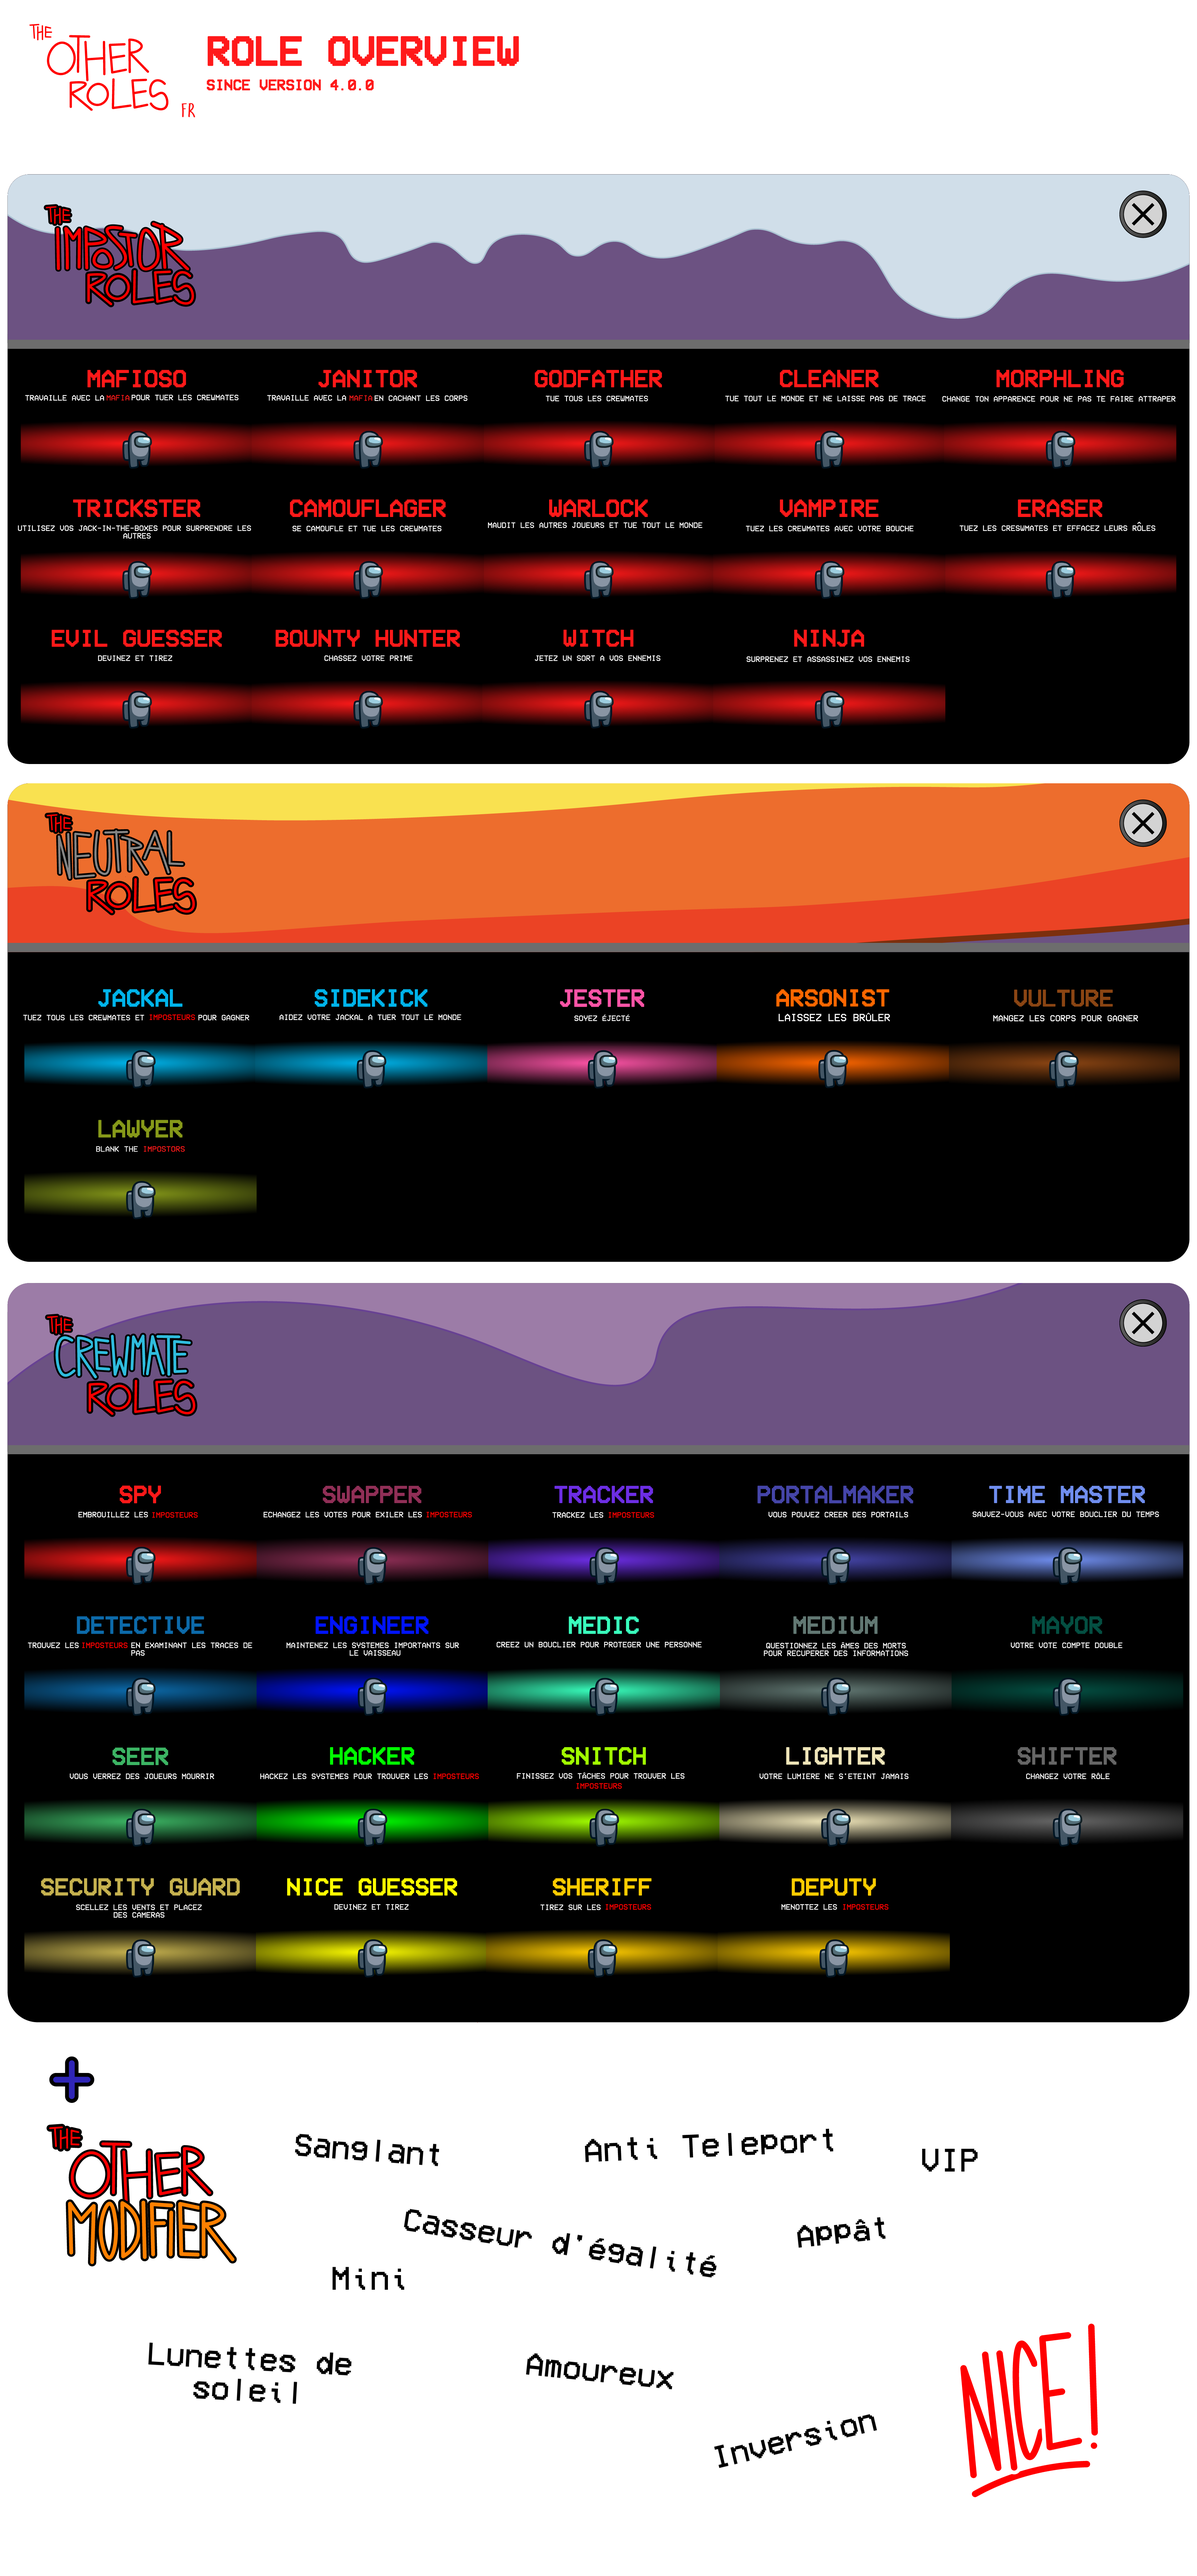
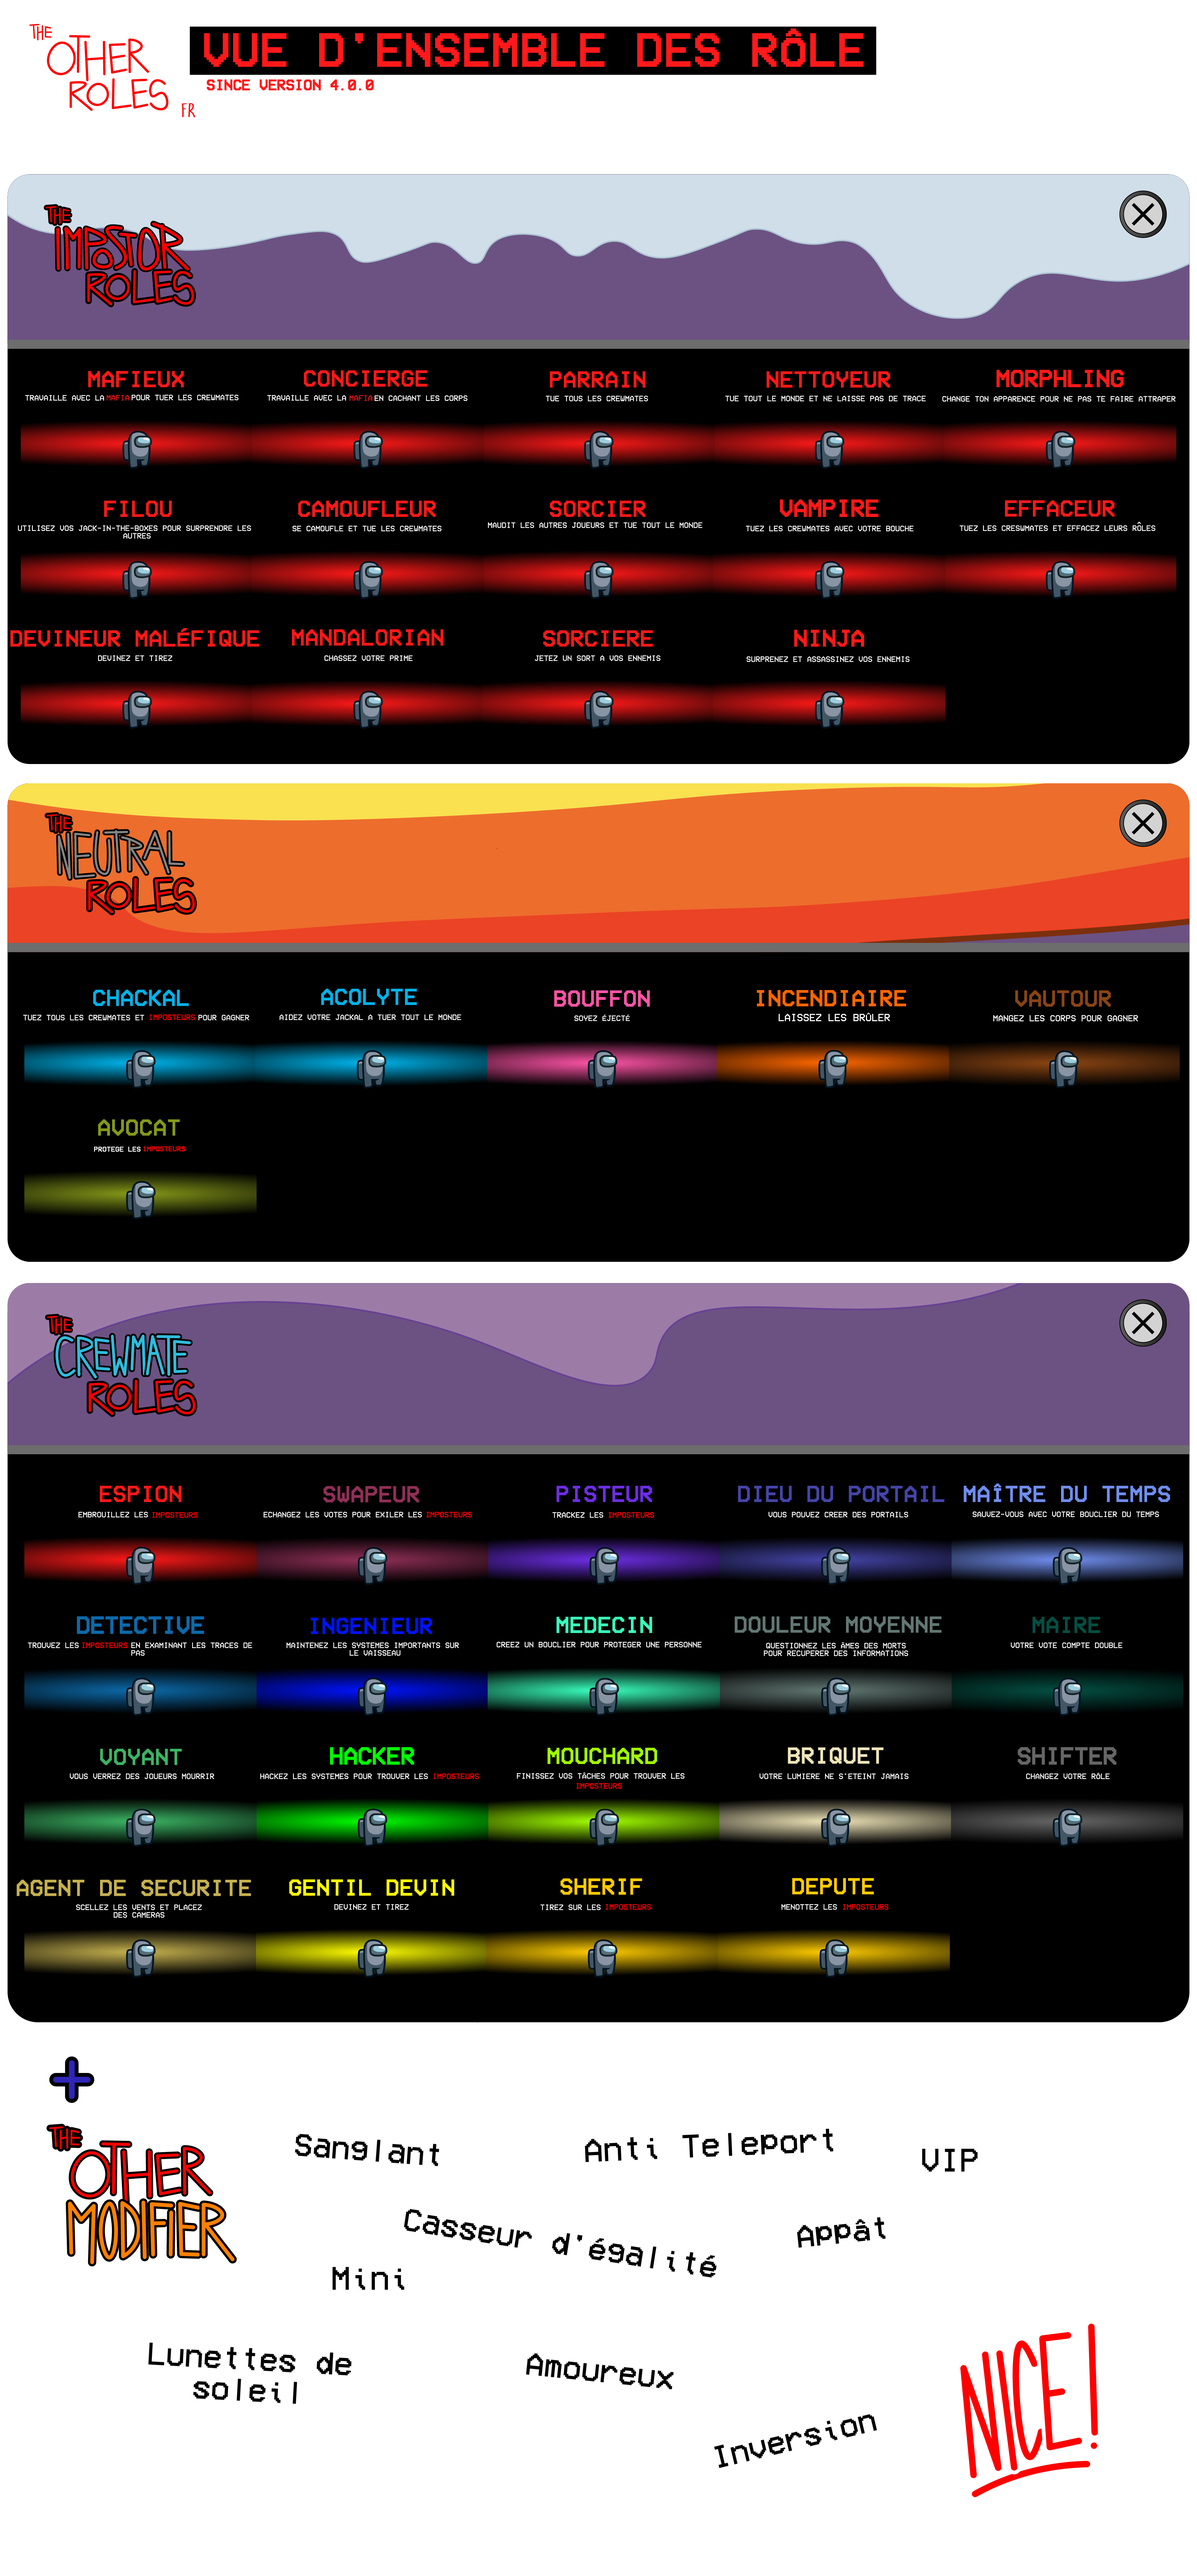
Roles

diff --git a/README.md b/README.md
@@ -748,7 +748,7 @@ Voici quelques instructions, sur comment créer un chapeau personnalisé:
 
 - **Envoi:** Si vous avez un design de chapeau, vous pouvez l'envoyer dans notre [Serveur Discord](https://discord.gg/77RkMJHWsM). We'll look at all the hats and add all the good ones to the game.
 
-# Colors
+# Couleurs
 ![TOR Colors](./Images/TOR_colors.jpg)
 
 # Rôles
@@ -902,7 +902,7 @@ Le Cleaner est un Imposteur que a l'abilité de nettoyer les cadavres.\
 | Cooldown du Cleaner | Cooldown pour nettoyer les cadavres
 -----------------------
 
-## Warlock
+## Sorcier
 ### **Team: Imposteurs**
 Le Warlock est un imposteur, qui peut maudire un autre joueur (le joueur maudit n'est pas averti).\
 Si la personne maudite se tient à côté d'un autre joueur, le Warlock est capable de tuer ce joueur (quelle que soit sa distance).\
@@ -946,29 +946,29 @@ Selon les options, il y aura une flèche pointant vers la cible actuelle.\
 | Intervalle de Mise à Jour de la Flèche | Définis quand la position est mise à jour
 -----------------------
 
-## Witch
-### **Team: Impostors**
-The Witch is an Impostor who has the ability to cast a spell on other players.\
-During the next meeting, the spellbound player will be highlighted and they'll die right after the meeting.\
-There are multiple options listed down below with which you can configure to fit your taste.\
-Similar to the Vampire, shields and blanks will be checked twice (at the end of casting the spell on the player and at the end of the meeting, when the spell will be activated).\
-This can result in players being marked as spelled during the meeting, but not dying in the end (when they get a shield or the Witch gets blanked after they were spelled by the Witch).\
-If the Witch dies before the meeting starts or if the Witch is being guessed during the meeting, the spellbound players will be highlighted but they'll survive in any case.\
-Depending on the options you can choose whether voting the Witch out will save all the spellbound players or not.\
+## Sorcière
+### **Team: Imposteurs**
+La Sorcière est un imposteur qui a la capacité de lancer un sort sur d'autres joueurs.\
+Lors du prochain meeting, le joueur envoûté sera mis en surbrillance et il mourra juste après le meeting.\
+Il existe plusieurs options répertoriées ci-dessous avec lesquelles vous pouvez configurer selon vos goûts.\
+Semblable au vampire, les boucliers seront vérifiés deux fois (à la fin du lancement du sort sur le joueur et à la fin du meeting, lorsque le sort sera activé).\
+Cela peut faire en sorte que les joueurs soient marqués comme épelés pendant le meeting, mais ne meurent pas à la fin (quand ils obtiennent un bouclier ou que la sorcière est masquée après avoir été épelée par la sorcière).\
+Si la sorcière meurt avant le début de la réunion ou si la sorcière est devinée pendant la réunion, les joueurs envoûtés seront mis en évidence mais ils survivront dans tous les cas.\
+En fonction des options, vous pouvez choisir si le fait de rejeter la Sorcière sauvera ou non tous les joueurs envoûtés.\
 \
 **NOTE:**
-- The spellbound players will die before the voted player dies (which might trigger e.g. trigger an Impostor win condition, even if the Witch is the one being voted)
+- Les joueurs envoûtés mourront avant que le joueur élu ne meure (ce qui pourrait déclencher, par exemple, une condition de victoire d'imposteur, même si la sorcière est celle qui est votée)
 
-### Game Options
-| Name | Description |
+### Options de jeu
+| Nom | Description |
 |----------|:-------------:|
-| Witch Spawn Chance | -
-| Witch Spell Casting Cooldown | -
-| Witch Additional Cooldown | The spell casting cooldown will be increased by the amount you set here after each spell
-| Witch Can Spell Everyone | If set to false, the witch can't spell the Spy and other Impostors
-| Witch Spell Casting Duration | The time that you need to stay next to the target in order to cast a spell on it
-| Trigger Both Cooldowns | If set to true, casting a spell will also trigger cooldown of the kill button and vice versa (but the two cooldowns may vary)
-| Voting The Witch Saves All The Targets | If set to true, all the cursed targets will survive at the end of the meeting
+| Taux d'Apparition de la Sorcière | -
+| Cooldown des sorts | -
+| Cooldown Additionnel | Le Cooldown d'incantation sera augmenté du montant que vous avez défini ici après chaque sort
+| les Sorcières peuvent ensorceller tout le monde | Si cette option est désactivée, La sorcière ne peut pas ensorceller les Espions et les Imposteurs
+| Durée d'incantation | Le temps que vous avez besoin de rester à côté de la cible pour faire l'incantation
+| Cooldown partagés | Si cette options est activée, faire une incantation va aussi déclencher le cooldown du bouton kill et vice versa (mais les deux cooldown peuvent varier)
+| Voting The Witch Saves All The Targets | Si cette option est activée, toutes les cibles maudites survivront à la fin du meeting
 -----------------------
 
 ## Ninja
